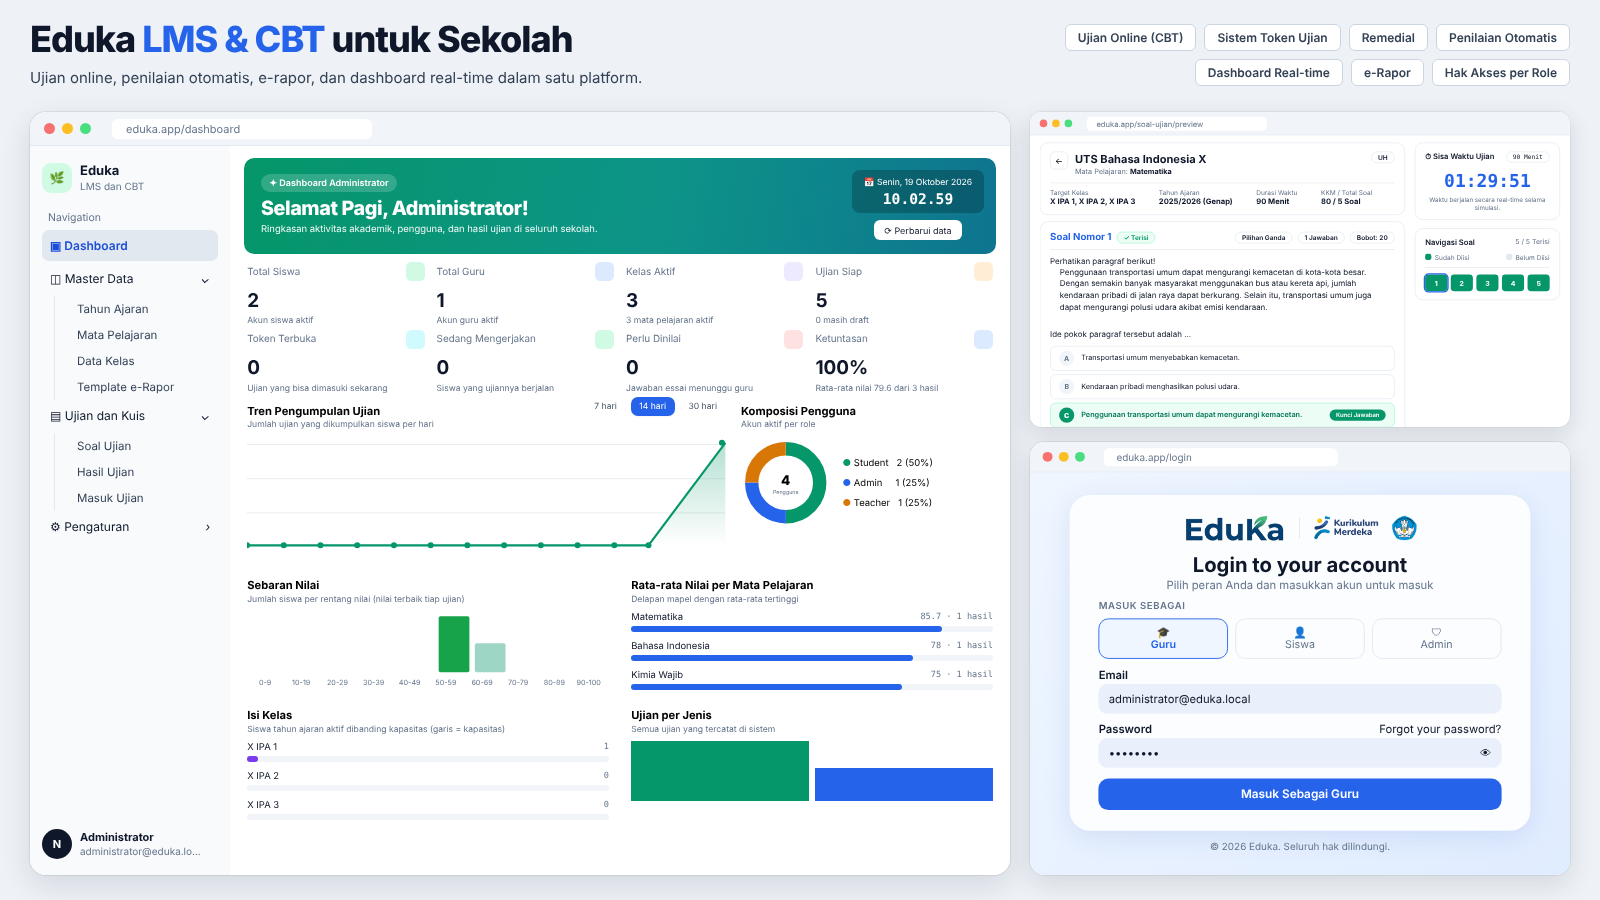
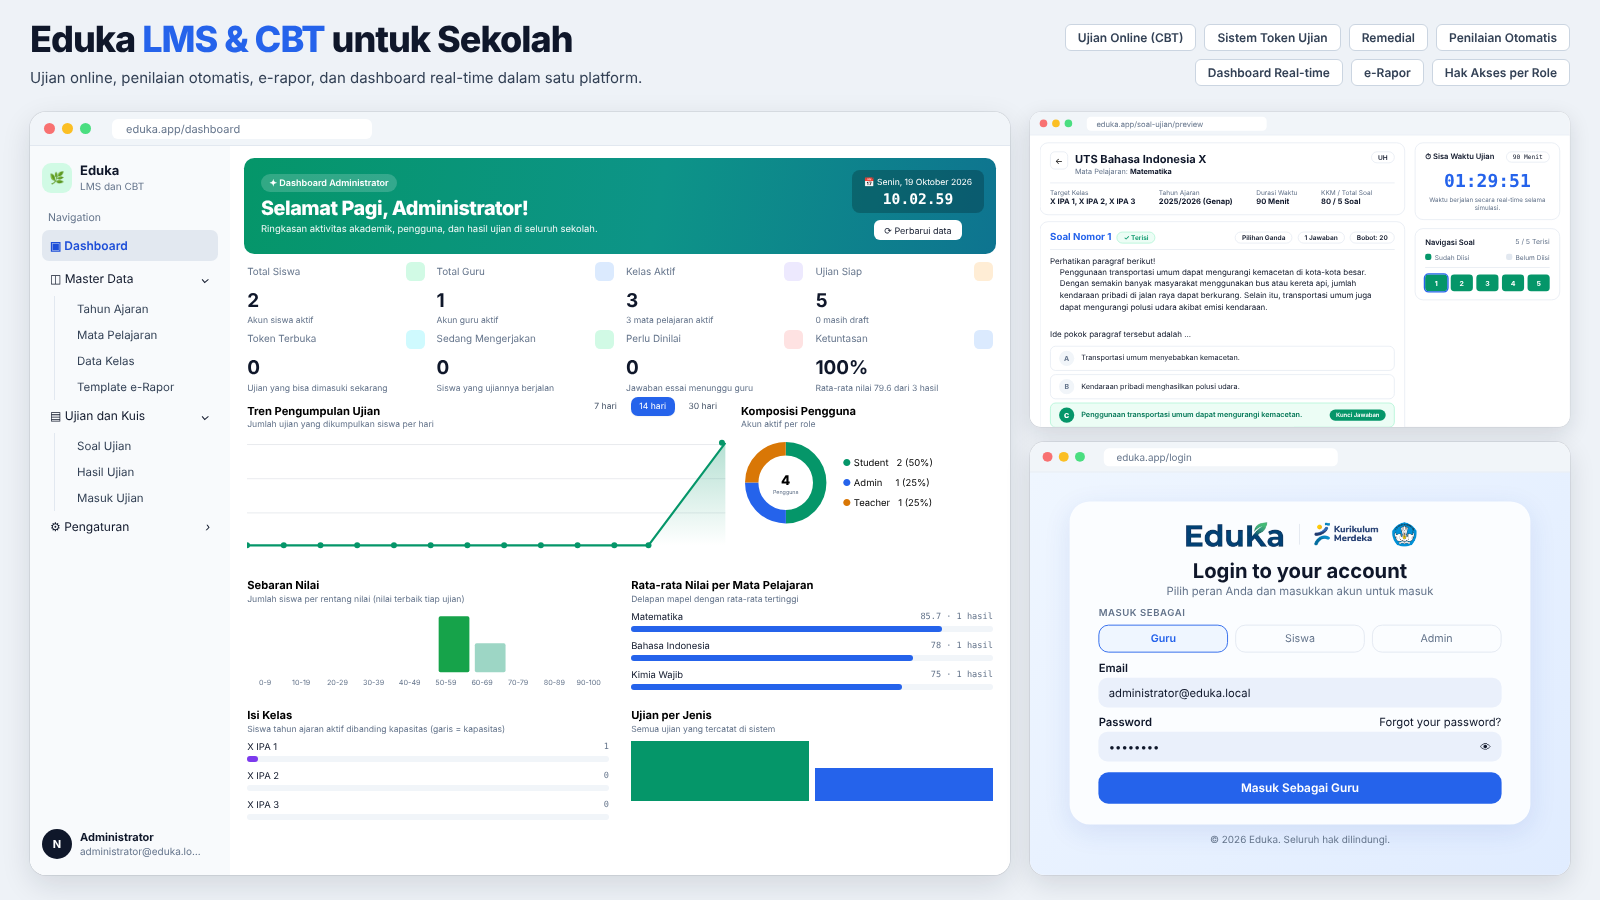
Thumbnail: hapus ikon pada pilihan peran login
Claude-Session: https://claude.ai/code/session_01ATwfgHp4Vpqeq6htkAiMvw

Changed region(s): [[0.6562, 0.56, 0.9688, 0.9644], [0.9062, 0.5289, 0.9375, 0.56]]

diff --git a/docs/thumbnail/thumbnail.html b/docs/thumbnail/thumbnail.html
@@ -169,7 +169,7 @@ table{width:100%;border-collapse:collapse;font-size:10.5px}td,th{padding:5px 4px
    <div class="logos" style="margin-bottom:8px"><img src="eduka.png" height="26"><span style="width:1px;height:18px;background:#e2e8f0"></span><img src="kurikulum.png" height="22"><img src="pendidikan.png" height="22"></div>
    <h3 style="text-align:center;font-size:18px;color:#0f172a">Login to your account</h3><p style="text-align:center;font-size:10px;color:#64748b;margin:2px 0 8px">Pilih peran Anda dan masukkan akun untuk masuk</p>
    <div style="font-size:8.5px;color:#64748b;letter-spacing:.06em;font-weight:600">MASUK SEBAGAI</div>
-   <div class="roles" style="margin:5px 0 8px;gap:6px"><div class="on" style="padding:6px 0;font-size:9.5px">🎓<br>Guru</div><div style="padding:6px 0;font-size:9.5px">👤<br>Siswa</div><div style="padding:6px 0;font-size:9.5px">🛡<br>Admin</div></div>
+   <div class="roles" style="margin:5px 0 8px;gap:6px"><div class="on" style="padding:6px 0;font-size:9.5px">Guru</div><div style="padding:6px 0;font-size:9.5px">Siswa</div><div style="padding:6px 0;font-size:9.5px">Admin</div></div>
    <div class="lbl" style="font-size:10px;margin:4px 0 3px">Email</div><div class="inp" style="height:26px;font-size:10px;padding:7px 9px">administrator@eduka.local</div>
    <div class="lbl" style="font-size:10px;margin:7px 0 3px;display:flex;justify-content:space-between">Password<span style="font-weight:400">Forgot your password?</span></div><div class="inp" style="height:26px;font-size:10px;padding:7px 9px"><span>••••••••</span><span>👁</span></div>
    <div class="btn" style="margin-top:10px;height:28px;line-height:28px;font-size:10.5px">Masuk Sebagai Guru</div>
